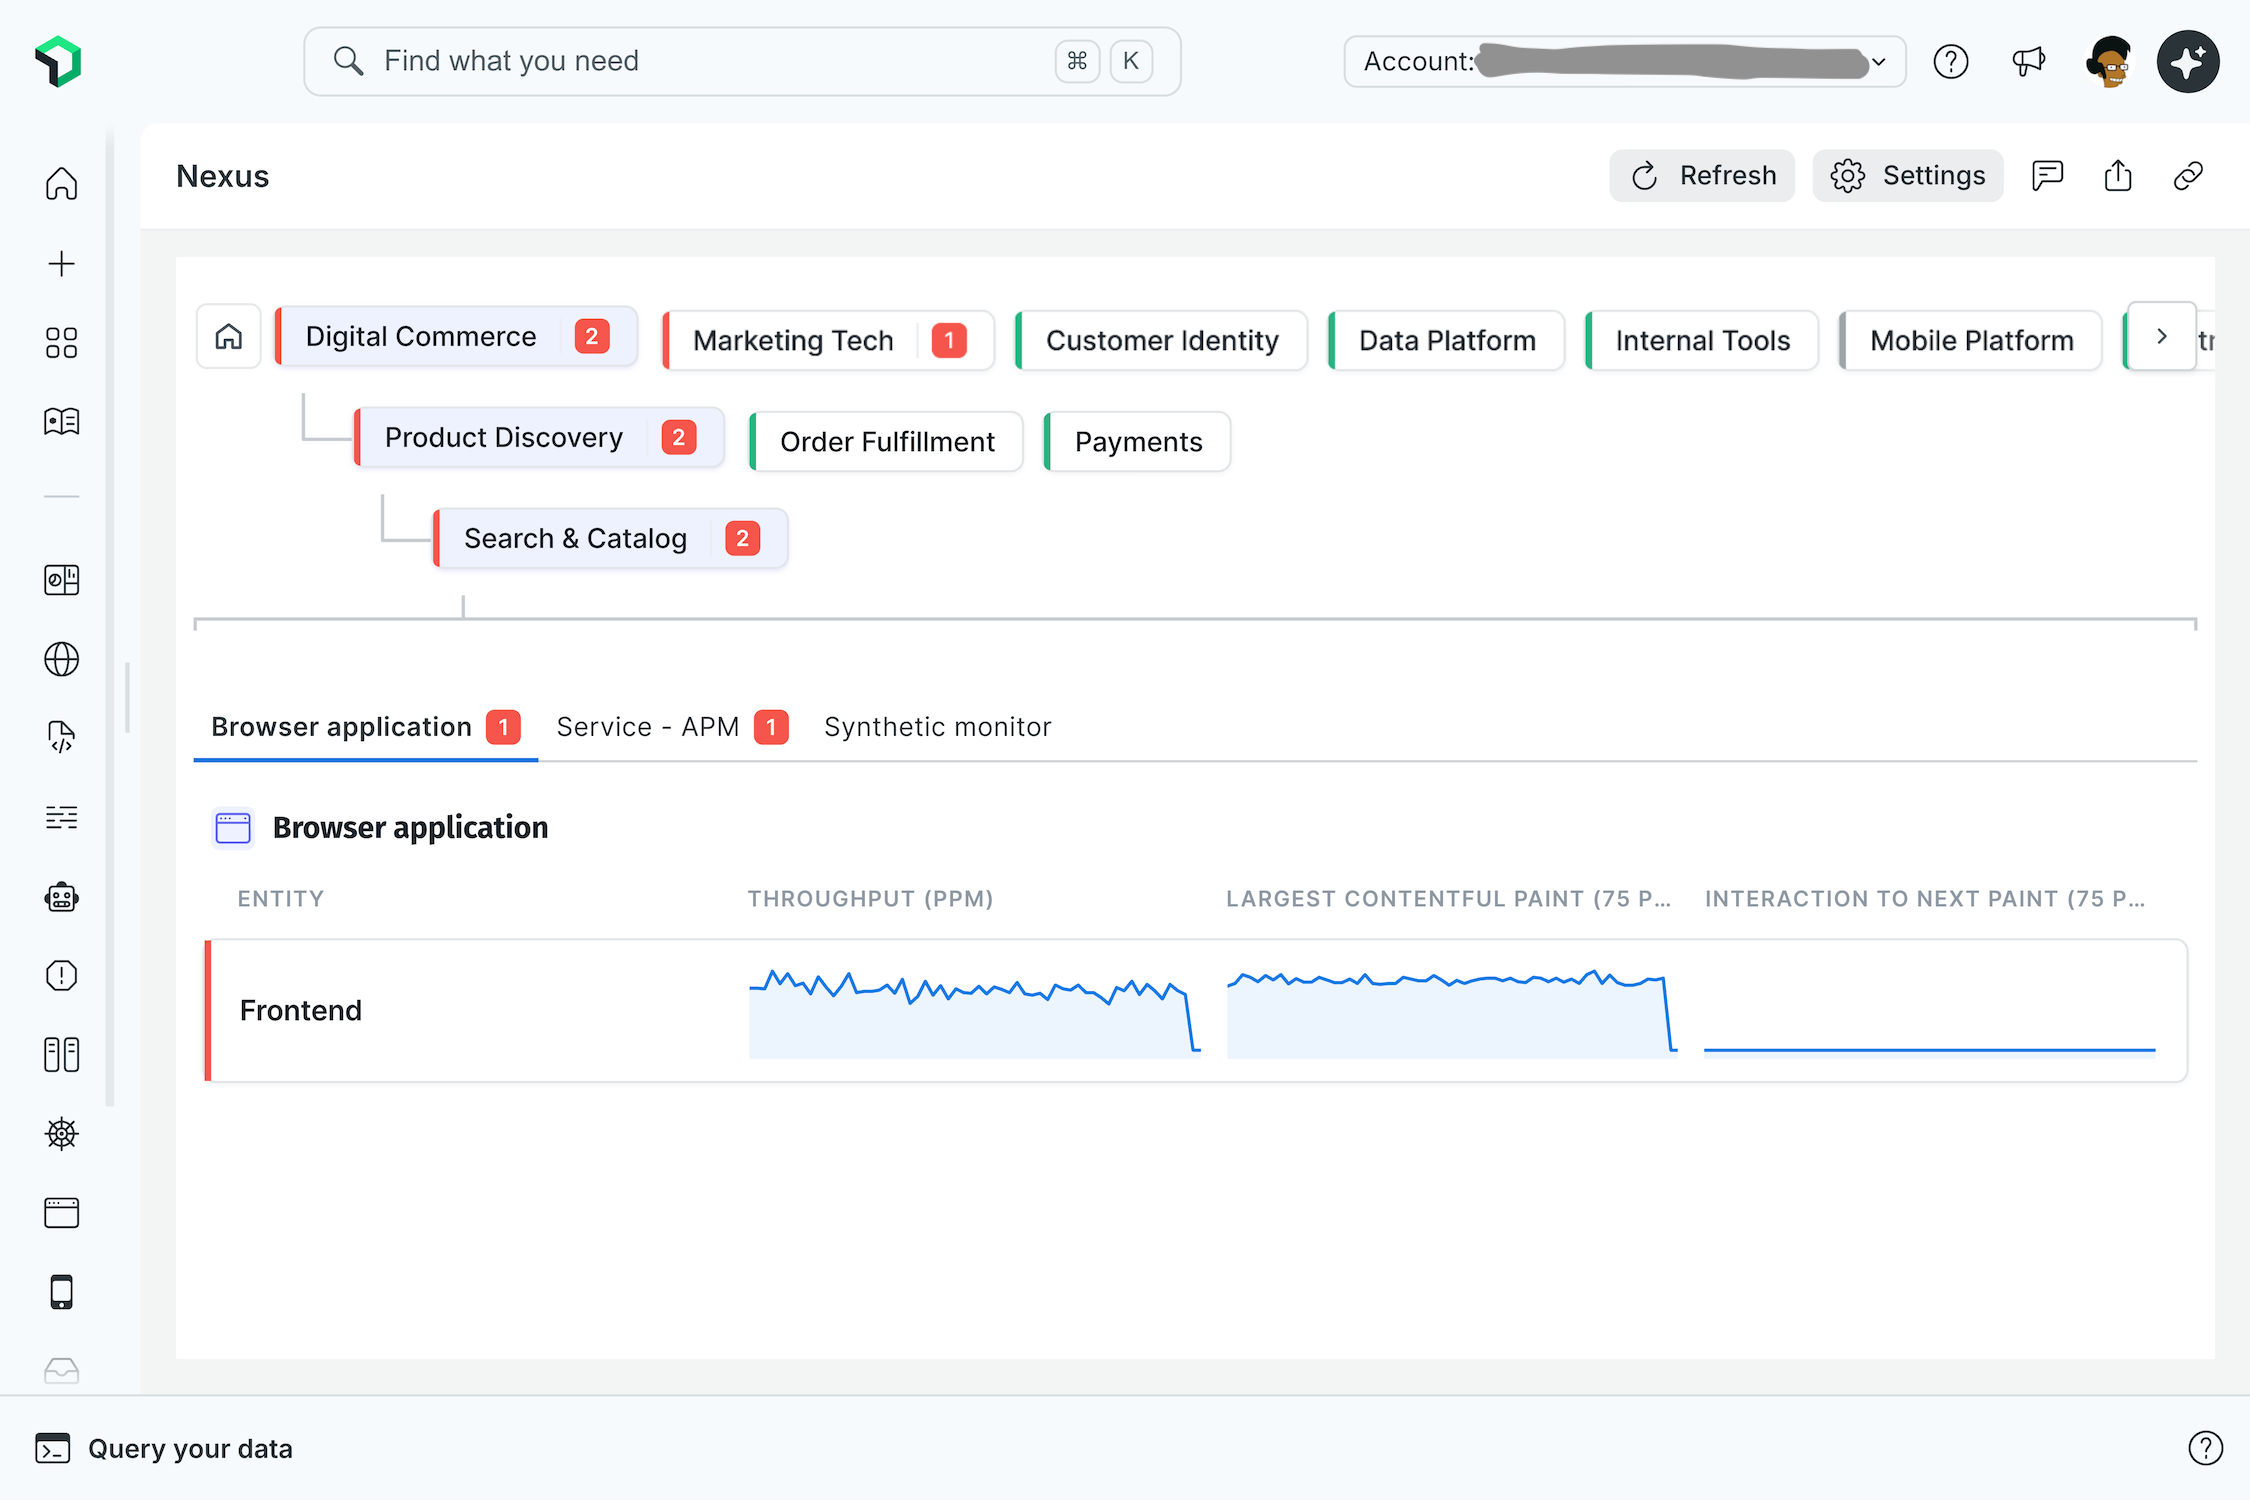
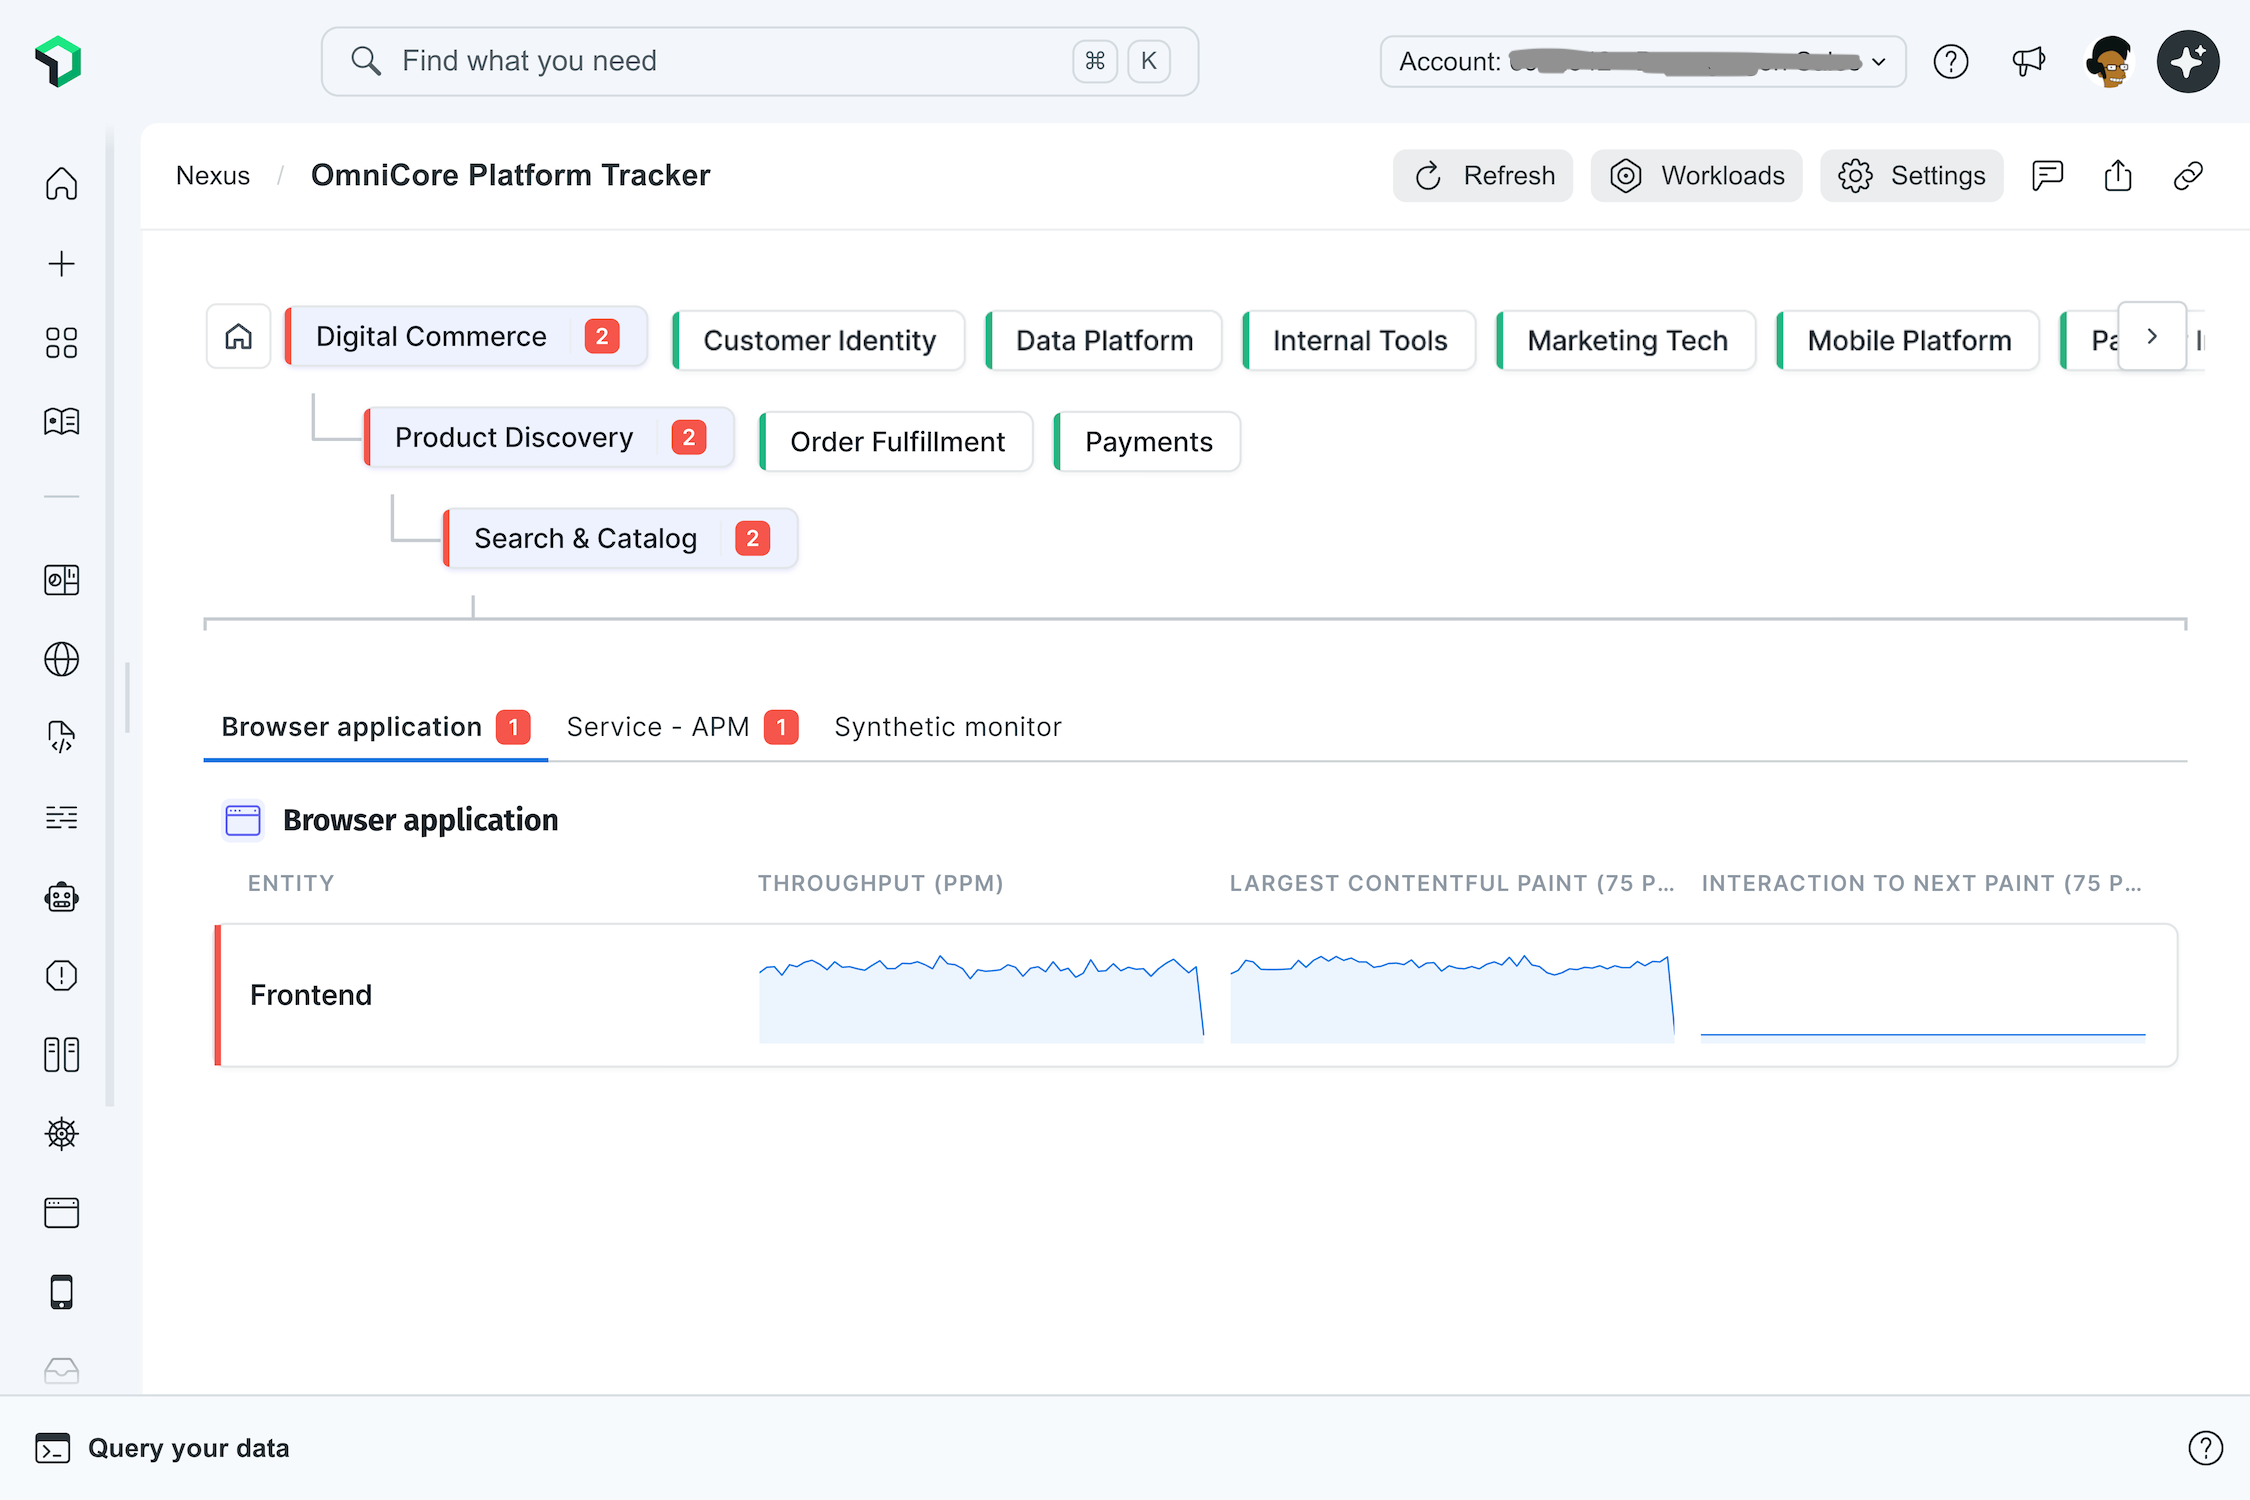
docs: update readme and catalog about new features; updated screenshot

diff --git a/catalog/documentation.md b/catalog/documentation.md
@@ -2,17 +2,18 @@
 
 Nexus (formerly Neon) is an executive dashboard for New Relic that rolls up the health of your entire estate into a single view. Aggregate Workloads across teams, business units, or regions onto one board: leadership gets a single-glance health check, and engineering teams get rapid-fire triage into the issues underneath.
 
-Nexus is driven by [New Relic Workloads](https://docs.newrelic.com/docs/new-relic-solutions/new-relic-one/workloads/workloads-isolate-resolve-alert-events-faster/). Before you set up a board, make sure the Workloads you want to monitor already exist in your account.
+Nexus organizes your estate into **boards**, each built from a set of [New Relic Workloads](https://docs.newrelic.com/docs/new-relic-solutions/new-relic-one/workloads/workloads-isolate-resolve-alert-events-faster/). Before creating a board, make sure the Workloads you want to monitor already exist in your account.
 
-To set up your dashboard:
+To create a board:
 
-1. Launch **Nexus** from the New Relic Apps page.
-2. Click the **Settings** button in the toolbar (on first launch, an empty-state prompt will point you at it directly).
-3. In the Settings panel, filter or search the list of Workloads in your account and select the ones you want on the board.
-4. (Optional) Toggle **Hide unacknowledged count** if you'd rather not surface unacknowledged issue counts on the board.
-5. Click **Save**. Your selected Workloads appear on the board with their current alert severity and open-issue counts.
+1. Launch **Nexus** from the New Relic Apps page. You'll land on the boards list.
+2. Click **New board** and give it a title and (optional) description.
+3. On the new board, click the **Workloads** button in the toolbar and select the Workloads you want to track.
+4. Click **Save**. Your selected Workloads appear on the board with their current alert severity and open-issue counts.
 
-To add or remove Workloads later, reopen the Settings panel from the toolbar at any time.
+To add or remove Workloads later, reopen the **Workloads** button from the toolbar at any time. Click **Settings** to rename the board, toggle **Hide unacknowledged count**, mark it as your default board (so it opens automatically next time you launch Nexus), or delete it.
+
+When viewing a board, click the **Nexus** link at the front of the breadcrumb (next to the board name) to return to your list of boards.
 
 ## Dependencies
 

diff --git a/README.md b/README.md
@@ -12,17 +12,18 @@ Nexus is an **executive dashboard** for New Relic that rolls up the health of yo
 
 ## Usage
 
-Nexus is driven by [New Relic Workloads](https://docs.newrelic.com/docs/new-relic-solutions/new-relic-one/workloads/workloads-isolate-resolve-alert-events-faster/). Before you set up a board, make sure the Workloads you want to monitor already exist in your account.
+Nexus organizes your estate into **boards**, each built from a set of [New Relic Workloads](https://docs.newrelic.com/docs/new-relic-solutions/new-relic-one/workloads/workloads-isolate-resolve-alert-events-faster/). Before creating a board, make sure the Workloads you want to monitor already exist in your account.
 
-To set up your dashboard:
+To create a board:
 
-1. Launch **Nexus** from the [New Relic Apps page](https://one.newrelic.com/catalog/app-directory).
-2. Click the **Settings** button in the toolbar (on first launch, an empty-state prompt will point you at it directly).
-3. In the Settings panel, filter or search the list of Workloads in your account and select the ones you want on the board.
-4. (Optional) Toggle **Hide unacknowledged count** if you'd rather not surface unacknowledged issue counts on the board.
-5. Click **Save**. Your selected Workloads appear on the board with their current alert severity and open-issue counts.
+1. Launch **Nexus** from the [New Relic Apps page](https://one.newrelic.com/catalog/app-directory). You'll land on the boards list.
+2. Click **New board** and give it a title and (optional) description.
+3. On the new board, click the **Workloads** button in the toolbar and select the Workloads you want to track.
+4. Click **Save**. Your selected Workloads appear on the board with their current alert severity and open-issue counts.
 
-To add or remove Workloads later, reopen the Settings panel from the toolbar at any time.
+To add or remove Workloads later, reopen the **Workloads** button from the toolbar at any time. Click **Settings** to rename the board, toggle **Hide unacknowledged count**, mark it as your default board (so it opens automatically next time you launch Nexus), or delete it.
+
+When viewing a board, click the **Nexus** link at the front of the breadcrumb (next to the board name) to return to your list of boards.
 
 ## Dependencies
 
